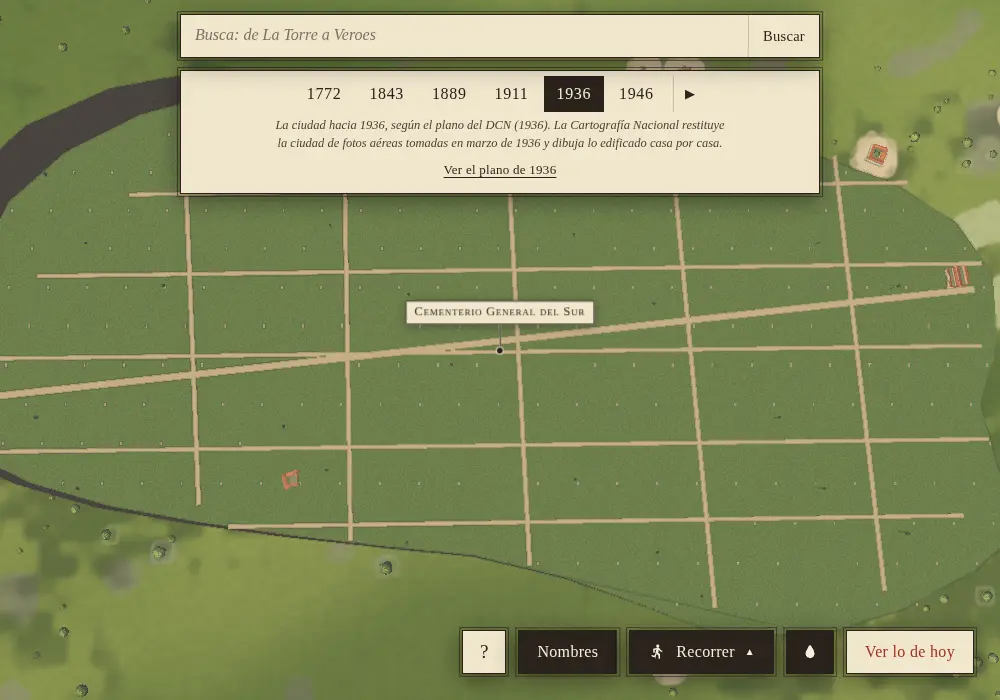
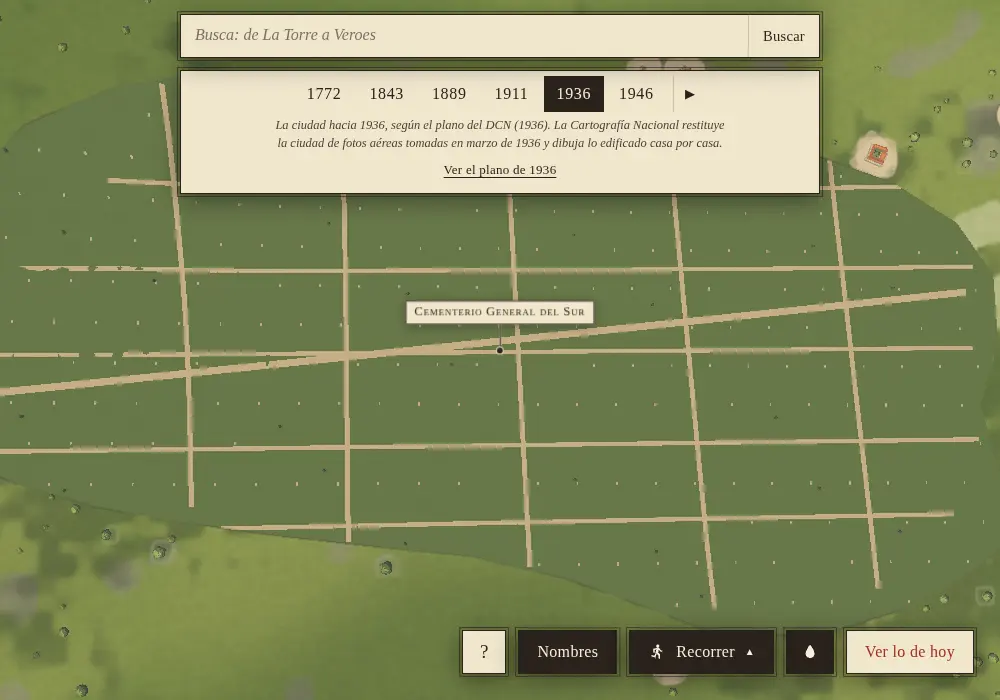
fix: follow terreno en cementerio general del sur

diff --git a/src/hitos/cementerio-sur.js b/src/hitos/cementerio-sur.js
@@ -1,21 +1,25 @@
-import {BoxGeometry,CylinderGeometry,Shape,ShapeGeometry,SphereGeometry} from 'three'
+import {CylinderGeometry,PlaneGeometry,Shape,ShapeGeometry,SphereGeometry} from 'three'
 import {AVENIDAS_SUR_INICIALES,CALLES_SUR_1936,CONTORNO_SUR_1936,CONTORNO_SUR_INICIAL} from './datos/cementerio-sur.js'
+import {subdividirRecinto} from './hijos-dios.js'
 import {MAT} from './lienzo.js'
 
 const COLOR={tierra:0x829568,camino:0xc7b99a,piedra:0xc3bba8,claro:0xf6ead2,hoja:0x486644,tronco:0x6b543a}
 function local(p){return [(p[0]-7100)/2,(p[1]-12500)/2]}
-function emitir(p,g,color){p.geo(g,{color})}
-function caja(p,w,h,d,x,y,z,color){emitir(p,new BoxGeometry(w,h,d).translate(x,y,z),color)}
+function emitir(p,g,color){p.sobreTerreno().geo(g,{color})}
+function caja(p,w,h,d,x,y,z,color){emitir(p,new PlaneGeometry(w,d).rotateX(-Math.PI/2).translate(x,y,z),color)}
+function placaVertical(p,w,h,x,y,z,color){emitir(p,new PlaneGeometry(w,h).translate(x,y,z),color)}
 function suelo(p,contorno){
  const s=new Shape(),pts=contorno.map(([x,z])=>local([x,z]));s.moveTo(pts[0][0],-pts[0][1]);
  for(const [x,z] of pts.slice(1))s.lineTo(x,-z);s.closePath();
  const xs=pts.map(q=>q[0]),zs=pts.map(q=>q[1]),ancho=Math.max(...xs)-Math.min(...xs),fondo=Math.max(...zs)-Math.min(...zs)
  // El piso baja hasta el DEM por vértice; evita dejar una losa horizontal suspendida sobre las laderas.
- p.geo(new ShapeGeometry(s,1).rotateX(-Math.PI/2).translate(0,-.05,0),{color:[ancho/2,fondo/2,-1],mat:MAT.JARDIN})
+ const g=subdividirRecinto(new ShapeGeometry(s,1).rotateX(-Math.PI/2).translate(0,-.05,0),20)
+ p.sobreTerreno().geo(g,{color:[ancho/2,fondo/2,-1],mat:MAT.JARDIN,flota:true})
 }
 function camino(p,a,b,ancho){
- const [x0,z0]=a,[x1,z1]=b,dx=x1-x0,dz=z1-z0,l=Math.hypot(dx,dz),g=new BoxGeometry(l,.3,ancho);
- g.rotateY(Math.atan2(-dz,dx)).translate((x0+x1)/2,.5,(z0+z1)/2);emitir(p,g,COLOR.camino)
+ const [x0,z0]=a,[x1,z1]=b,dx=x1-x0,dz=z1-z0,l=Math.hypot(dx,dz),paso=16;
+ const g=new PlaneGeometry(l,ancho,Math.ceil(l/paso),1).rotateX(-Math.PI/2)
+ g.rotateY(Math.atan2(-dz,dx)).translate((x0+x1)/2,.02,(z0+z1)/2);emitir(p,g,COLOR.camino)
 }
 function dentro([x,z],poly){let c=false;for(let i=0,j=poly.length-1;i<poly.length;j=i++){const a=poly[i],b=poly[j];if((a[1]>z)!==(b[1]>z)&&x<(b[0]-a[0])*(z-a[1])/(b[1]-a[1])+a[0])c=!c;}return c}
 function distancia(p,a,b){const [x,z]=p,[ax,az]=a,[bx,bz]=b,dx=bx-ax,dz=bz-az,l=dx*dx+dz*dz||1,f=Math.max(0,Math.min(1,((x-ax)*dx+(z-az)*dz)/l));return Math.hypot(x-(ax+f*dx),z-(az+f*dz))}
@@ -47,7 +51,7 @@ export function cementerioSur(p,{fase='ampliado'}={}){
   const cerca=vias.some(v=>distancia(q,v.tramo[0],v.tramo[1])<(v.ancho/2+1.8));
   if(cerca||(ix*7+iz*11)%13===0)continue;
   caja(p,1.35,.22,2.4,q[0],.25,q[1],COLOR.piedra);tumba++;
-  if((ix*5+iz*3)%17===0)caja(p,1.45,.65,.35,q[0],.65,q[1]-1.1,COLOR.claro);
+  if((ix*5+iz*3)%17===0)placaVertical(p,1.45,.65,q[0],.65,q[1]-1.1,COLOR.claro);
  }
  const pasoArbol=extendido?47:28;
  for(let z=minZ+20,iz=0;z<maxZ-20;z+=pasoArbol,iz++)for(let x=minX+20,ix=0;x<maxX-20;x+=pasoArbol,ix++){

diff --git a/tests/unit/cementerio-sur.test.js b/tests/unit/cementerio-sur.test.js
@@ -1,5 +1,5 @@
 import {describe,expect,test} from 'vitest'
-import {HITOS,construirHitos,validarHitos,zonasDeSupresion} from '../../src/hitos.js'
+import {HITOS,construirHitos,suprimirTechos,validarHitos,zonasDeSupresion} from '../../src/hitos.js'
 import {hitosConPlanta} from '../../src/hitos/plantas.js'
 import {rejillaDeCasas,choca} from '../../src/a-pie.js'
 import {glslSuelosPropios} from '../../src/hitos/suelos-propios.js'
@@ -29,6 +29,9 @@ describe('Cementerio General del Sur',()=>{
  test('las reservas y el suelo cambian en 1936, no antes',()=>{
   const zonas=zonasDeSupresion([cementerioSur])
   expect(zonas.map(z=>[z.desde,z.hasta])).toEqual([[3,5],[5,0]])
+  const vertices=new Float32Array([6300,12500,6308,12500,6308,12508,6300,12508])
+  const techos=new Uint32Array([0,4,0,0])
+  expect(suprimirTechos({vertices,techos,vida:new Uint32Array([5])},zonas)[0]).toBe(63)
   const shader=glslSuelosPropios(plano,.5)
   expect(shader).toContain('vivoEn(vec2(3.00000,5.00000)')
   expect(shader).toContain('vivoEn(vec2(5.00000,0.00000)')
@@ -46,6 +49,9 @@ describe('Cementerio General del Sur',()=>{
  test('construye malla finita y conserva fases de los vértices',()=>{
   const resultado=construirHitos([cementerioSur],coords),r=resultado.rangos.find(x=>x.id==='cementerio-sur')
   expect(r.hasta-r.desde).toBeGreaterThan(5000)
+  const anclas=new Set()
+  for(let i=r.desde;i<r.hasta;i++)anclas.add(`${resultado.anclas[4*i]},${resultado.anclas[4*i+1]}`)
+  expect(anclas.size).toBeGreaterThan(100)
   for(const v of resultado.posiciones)expect(Number.isFinite(v)).toBe(true)
   const vidas=new Set()
   for(let i=r.desde;i<r.hasta;i++){const nace=resultado.vidas[2*i],muere=resultado.vidas[2*i+1];vidas.add(`${nace}/${muere}`)}

diff --git a/tests/unit/hitos.test.js b/tests/unit/hitos.test.js
@@ -103,8 +103,8 @@ describe('construirHitos', () => {
   })
 
   test('presupuesto: pocos triángulos para un solo draw call', () => {
-    expect(construirHitos(HITOS.filter(h=>h.nace<6),coords).indices.length / 3).toBeLessThan(600_000) // presupuesto de geometría histórica antes del cierre.
-    expect(datos.indices.length / 3).toBeLessThan(1_080_000) // San Agustín + Hijos de Dios: ~1.071.395 en total.
+    expect(construirHitos(HITOS.filter(h=>h.nace<6),coords).indices.length / 3).toBeLessThan(605_000) // Cementerio Sur sigue el relieve con malla subdividida: +2.774 triángulos.
+    expect(datos.indices.length / 3).toBeLessThan(1_090_000) // Total medido con terrenos siguiendo el DEM: 1.080.573.
   })
 
   test('cada hito ocupa un rango de vértices y queda cerca de su lugar en el plano', () => {
@@ -131,7 +131,7 @@ describe('construirHitos', () => {
   test('el ancla de cada vértice es el origen de su hito, y la distancia a la plaza, la del hito', () => {
     for (const { id, desde } of datos.rangos) {
       const { x, z } = coords.aMundo(hito(id).x, hito(id).y)
-      const sigueSuelo=id==='hijos-de-dios'||id==='silencio-urbanizacion'||id.startsWith('silencio-plaza-')
+      const sigueSuelo=id==='hijos-de-dios'||id==='cementerio-sur'||id==='silencio-urbanizacion'||id.startsWith('silencio-plaza-')
       expect(datos.anclas[desde * 4]).toBeCloseTo(sigueSuelo?datos.posiciones[desde*3]:x, 3)
       expect(datos.anclas[desde * 4 + 1]).toBeCloseTo(sigueSuelo?datos.posiciones[desde*3+2]:z, 3)
       expect(datos.hitos[desde * 4]).toBeCloseTo(Math.hypot(x, z), 3)

diff --git a/tests/unit/hitos-palacios.test.js b/tests/unit/hitos-palacios.test.js
@@ -142,9 +142,9 @@ describe('los edificios civiles', () => {
     // T41c añade cinco etapas de Casa Amarilla (<220 mil, con envolvente compartida); T41d, el Capitolio desde
     // 1772 (~73 mil, con el cuerpo neoclásico compartido de 1889 a 1936); T41g, San Francisco en tres tramos
     // (~12,7 mil, sin interior). Siempre en el mismo draw call.
-    // Teatro Municipal: +36.247 triángulos, compartidos entre 1889/1911/1936. Total medido: 498.150.
-    expect(construirHitos(HITOS.filter(h=>h.nace<6),coords).indices.length / 3).toBeLessThan(600_000) // San Agustín + Hijos de Dios: ~592.022 históricos.
-    expect(d.indices.length / 3).toBeLessThan(1_080_000) // San Agustín + Hijos de Dios: ~1.071.395 en total.
+    // Cementerio Sur añade terreno/caminos siguiendo el relieve; total medido en todas las épocas: 1.080.573.
+    expect(construirHitos(HITOS.filter(h=>h.nace<6),coords).indices.length / 3).toBeLessThan(605_000)
+    expect(d.indices.length / 3).toBeLessThan(1_090_000)
     expect(d.rangos.length).toBe(HITOS.length)
   }, 15_000)
 })

diff --git a/src/hitos/datos/cementerio-sur.js b/src/hitos/datos/cementerio-sur.js
@@ -25,6 +25,7 @@ export const cementerioSur=Object.freeze({
  suprimePorEpoca:[{nace:3,muere:5,poligono:poligonoInicial},{nace:5,muere:0,poligono:poligono1936}],
  sinArbolesPorEpoca:[{nace:3,muere:5,poligono:poligonoInicial},{nace:5,muere:0,poligono:poligono1936}],
  sueloPropioPorEpoca:[{nace:3,muere:5,poligono:poligonoInicial},{nace:5,muere:0,poligono:poligono1936}],
+ solarCompleto:true,
  fuente:'DCN 1936; Rodríguez 2011: https://servicio.bc.uc.edu.ve/postgrado/manongo36/art07.pdf',verificar:[],
  partes:[{tipo:'cementerio-sur',fase:'inicial',nace:3,muere:5},{tipo:'cementerio-sur',fase:'ampliado',nace:5,muere:0}],
 })

diff --git a/docs/cementerio-sur-integracion.md b/docs/cementerio-sur-integracion.md
@@ -15,6 +15,7 @@ Issue relacionado: [#250](https://github.com/grunch/caracas/issues/250). Este ca
 - `src/hitos/datos/cementerio-sur.js`: ancla, dos huellas temporales y fuente cartográfica.
 - `src/hitos/cementerio-sur.js`: geometría simplificada de los campos, caminos, sepulturas y árboles.
 - `src/hitos/material.js`: tratamiento de césped verde liso para el recinto, aparte del patrón formal de plazas.
+- El suelo y los caminos se subdividen; cada vértice toma la elevación local del relieve. Sepulturas y árboles también se apoyan sobre el terreno bajo cada objeto.
 - `src/hitos/partes.js` y `src/hitos.js`: registra el constructor y su vida desde la época 1889.
 - `src/hitos/plantas.js`: las colisiones distinguen el núcleo 1889/1911 de la ampliación representada en 1936/1946.
 - `src/hitos/suprimir.js`, `src/hitos/suprimir-arboles.js` y `src/hitos/suelos-propios.js`: las reservas de casas, árboles y suelo cambian con las dos fases. Los tipos antiguos de huella siguen funcionando sin cambios.
@@ -24,7 +25,7 @@ El ancla conservada en el catálogo es `(7100, 12500)` en píxeles del mapa base
 
 ## Pruebas y revisión
 
-El test `tests/unit/cementerio-sur.test.js` comprueba las dos fases, el recorte de calles contra un polígono cóncavo, las reservas de casas/árboles/suelo, colisiones, geometría finita y cronología. También se amplió la validación general de hitos para aceptar áreas con vida propia por etapa, sin cambiar el formato de las geometrías existentes. No se agregan binarios ni texturas descargadas al repositorio.
+La reserva cóncava suprime las casas que intersectan su área, incluso cuando quedan completamente dentro y no tocan sus lados. El test `tests/unit/cementerio-sur.test.js` comprueba las dos fases, el recorte de calles contra un polígono cóncavo, la supresión de una casa interior, las reservas de árboles/suelo, los apoyos distribuidos sobre el terreno, colisiones, geometría finita y cronología. También se amplió la validación general de hitos para aceptar áreas con vida propia por etapa, sin cambiar el formato de las geometrías existentes. Las cuatro capturas WebP optimizadas están en `docs/capturas/`; no se agregaron texturas descargadas.
 
 Antes de instalar, generar capturas del visor en 1889, 1911, 1936 y 1946 y comprobar: ausencia antes de 1889; núcleo reducido para 1889/1911; contorno DCN aproximado desde 1936; continuidad explícitamente provisional en 1946; reservas sin casas ni árboles dentro del cementerio; y ausencia de errores de shader. Medir el incremento de geometría y el arranque del sitio contra `main`; no subir presupuestos sin justificarlo.
 
